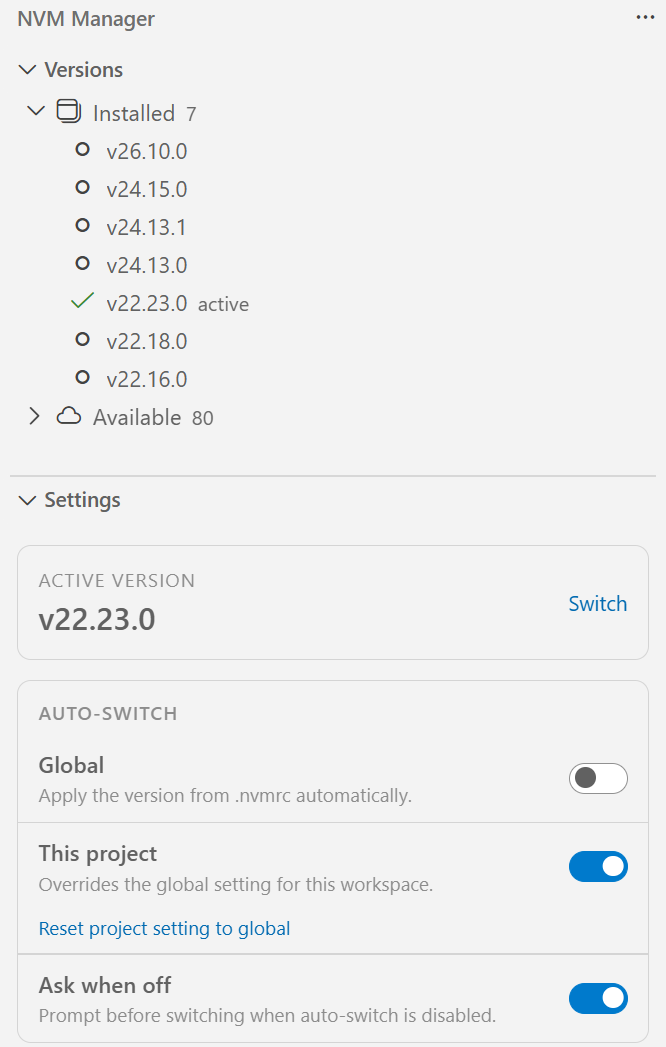
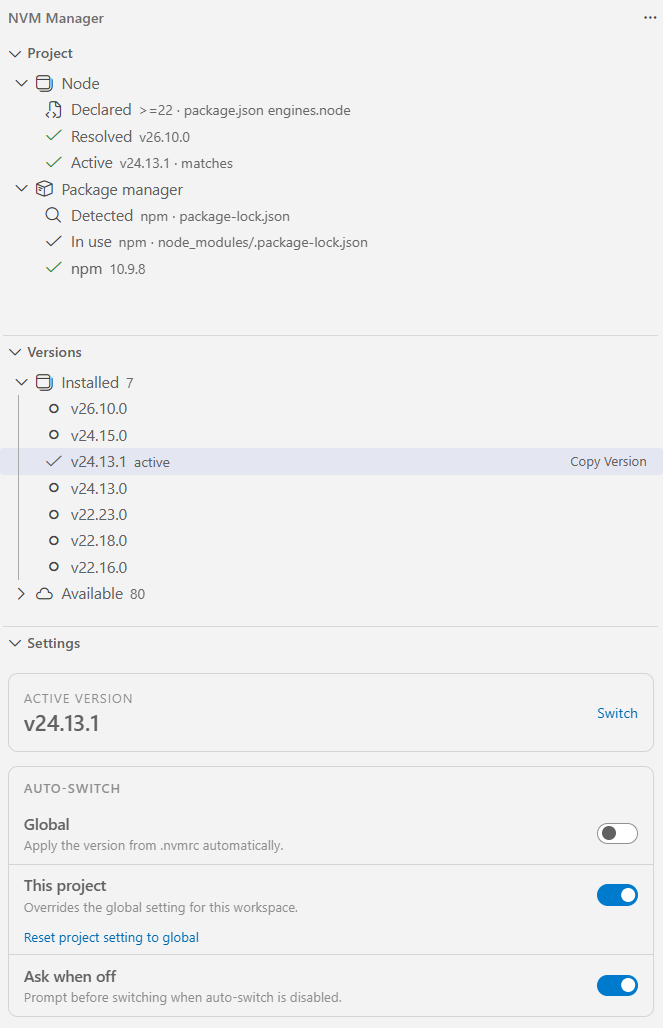
feat(autoSwitch): enhance node version resolution logic
* improve auto-switching by resolving declared node versions;
* update logic to check if the current version satisfies the declared version;
* refactor version resolution to streamline functionality.

diff --git a/src/services/versionService.ts b/src/services/versionService.ts
@@ -1,5 +1,7 @@
 import * as vscode from "vscode";
 import type { InstalledVersion, NvmAdapter, RemoteVersion } from "../nvm/types";
+import type { NodeDeclaration } from "../util/projectSignals";
+import { bestMatch, satisfies } from "../util/semver";
 import { resolveRequested } from "../util/version";
 import type { TerminalEnv } from "./terminalEnv";
 
@@ -38,6 +40,24 @@ export class VersionService {
       requested,
       this.installed.map((item) => item.version),
     );
+  }
+
+  resolveDeclaration(declared: NodeDeclaration): string | undefined {
+    const installed = this.installed.map((item) => item.version);
+    return declared.source === "engines"
+      ? bestMatch(declared.raw, installed)
+      : resolveRequested(declared.raw, installed);
+  }
+
+  isSatisfied(declared: NodeDeclaration): boolean {
+    const current = this.currentVersion;
+    if (!current) {
+      return false;
+    }
+    if (declared.source === "engines") {
+      return satisfies(current, declared.raw);
+    }
+    return current === this.resolveDeclaration(declared);
   }
 
   async refresh(): Promise<void> {

diff --git a/src/services/projectInfo.ts b/src/services/projectInfo.ts
@@ -11,8 +11,7 @@ import {
   type NodeDeclaration,
   type NodeSource,
 } from "../util/projectSignals";
-import { bestMatch, satisfies } from "../util/semver";
-import { resolveRequested } from "../util/version";
+import { satisfies } from "../util/semver";
 import type { VersionService } from "./versionService";
 
 export interface PackageAvailability {
@@ -110,16 +109,10 @@ export class ProjectInfoService {
       packageJson,
     });
     const declared = declarations[0];
-    const installed = this.service.getInstalled().map((item) => item.version);
     const active = this.service.getCurrent();
-
-    let resolved: string | undefined;
-    if (declared) {
-      resolved =
-        declared.source === "engines"
-          ? bestMatch(declared.raw, installed)
-          : resolveRequested(declared.raw, installed);
-    }
+    const resolved = declared
+      ? this.service.resolveDeclaration(declared)
+      : undefined;
 
     const matches = Boolean(
       declared &&

diff --git a/src/services/autoSwitch.ts b/src/services/autoSwitch.ts
@@ -65,14 +65,14 @@ export class AutoSwitch {
         return;
       }
 
-      const target = this.service.resolve(declared.raw);
+      const target = this.service.resolveDeclaration(declared);
       if (!target) {
         vscode.window.showWarningMessage(
           `NVM Manager: no installed Node.js version matches "${declared.raw}".`,
         );
         return;
       }
-      if (this.service.getCurrent() === target) {
+      if (this.service.isSatisfied(declared)) {
         return;
       }
 

diff --git a/CHANGELOG.md b/CHANGELOG.md
@@ -7,31 +7,76 @@ and this project adheres to [Semantic Versioning](https://semver.org/spec/v2.0.0
 
 ## [Unreleased]
 
+### Changed
+
+- Standardized the activity bar and view icons to a single-color 24×24 SVG.
+
+### Fixed
+
+- Auto-switch now resolves `engines.node` semver ranges and treats an already-satisfying active
+  version as satisfied, instead of warning or switching to the highest installed match.
+
+## [0.1.4] - 2026-09-24
+
 ### Added
 
-- macOS and Linux support via `nvm-sh`: installed versions are read from `nvm ls` / `nvm ls-remote`
-  and the selected version is applied to the integrated terminals.
 - Project view: the declared Node.js version and its source (`.nvmrc`, `.node-version`,
   `engines.node`), the resolved and active versions with a match indicator, and package manager
-  detection (declared, detected, in use, availability) with a switch-to-declared action.
+  detection (declared, detected, in use, availability).
+- Switch-to-declared and install-declared actions in the Project view.
+- Semver range support for `engines.node` (`^`, `~`, `>=`, `<=`, `x`, `||`).
+
+## [0.1.3] - 2026-09-24
 
 ### Changed
 
-- Rebalanced the logo wordmark to uppercase `NVM` for a more even look.
+- Updated the README screenshot.
+
+## [0.1.2] - 2026-09-24
+
+### Changed
+
+- Moved development instructions from the README to `CONTRIBUTING.md`.
 
 ### Removed
 
 - The redundant status bar toggle and the `nvmManager.statusBar.enabled` setting; use the status bar
   context menu to show or hide the item.
 
+## [0.1.1] - 2026-09-24
+
+### Changed
+
+- README: added the Marketplace link and badges, and made the intro platform-neutral.
+
+## [0.1.0] - 2026-09-24
+
+### Added
+
+- macOS and Linux support via `nvm-sh`: installed versions are read from `nvm ls` / `nvm ls-remote`
+  and the selected version is applied to the integrated terminals.
+
+### Changed
+
+- Rebalanced the logo wordmark to uppercase `NVM` for a more even look.
+- Release and CI workflows run on Node.js 22 and pin the public npm registry in the lockfile.
+
 ## [0.0.1] - 2026-09-24
 
 ### Added
 
-- Versions view in the activity bar: installed versions with the active one marked,
-  and an Available list (`nvm list available`) you can install from.
+- Versions view in the activity bar: installed versions with the active one marked, and an
+  Available list (`nvm list available`) you can install from.
 - Switch the active version from the tree, the status bar, or the command palette.
-- Auto-switch per project from `.nvmrc`, `.node-version` or `package.json`
-  `engines.node`, with global and per-workspace toggles.
+- Auto-switch per project from `.nvmrc`, `.node-version` or `package.json` `engines.node`, with
+  global and per-workspace toggles.
 - Sidebar Settings panel: auto-switch global/project, ask-when-off, status bar.
 - Install, uninstall and copy a version from the context menu.
+
+[Unreleased]: https://github.com/jenesei-software/vscode-nvm-manager/compare/v0.1.4...HEAD
+[0.1.4]: https://github.com/jenesei-software/vscode-nvm-manager/compare/v0.1.3...v0.1.4
+[0.1.3]: https://github.com/jenesei-software/vscode-nvm-manager/compare/v0.1.2...v0.1.3
+[0.1.2]: https://github.com/jenesei-software/vscode-nvm-manager/compare/v0.1.1...v0.1.2
+[0.1.1]: https://github.com/jenesei-software/vscode-nvm-manager/compare/v0.1.0...v0.1.1
+[0.1.0]: https://github.com/jenesei-software/vscode-nvm-manager/compare/v0.0.1...v0.1.0
+[0.0.1]: https://github.com/jenesei-software/vscode-nvm-manager/releases/tag/v0.0.1

diff --git a/CONTRIBUTING.md b/CONTRIBUTING.md
@@ -82,6 +82,13 @@ Releases are automated by the [release workflow](.github/workflows/release.yml)
 build, bumps the version, commits, tags, builds the `.vsix`, publishes to the
 [Visual Studio Marketplace](https://marketplace.visualstudio.com/) and creates a GitHub release.
 
+### Changelog
+
+[CHANGELOG.md](CHANGELOG.md) follows [Keep a Changelog](https://keepachangelog.com/en/1.1.0/). Add a
+bullet under `## [Unreleased]` (one of Added / Changed / Fixed / Removed / Deprecated / Security)
+as part of the change. When releasing, move the `Unreleased` entries under a new
+`## [X.Y.Z] - YYYY-MM-DD` heading and update the compare links at the bottom of the file.
+
 One-time setup:
 
 1. **Publisher** — create it at <https://marketplace.visualstudio.com/manage>. The id must match
